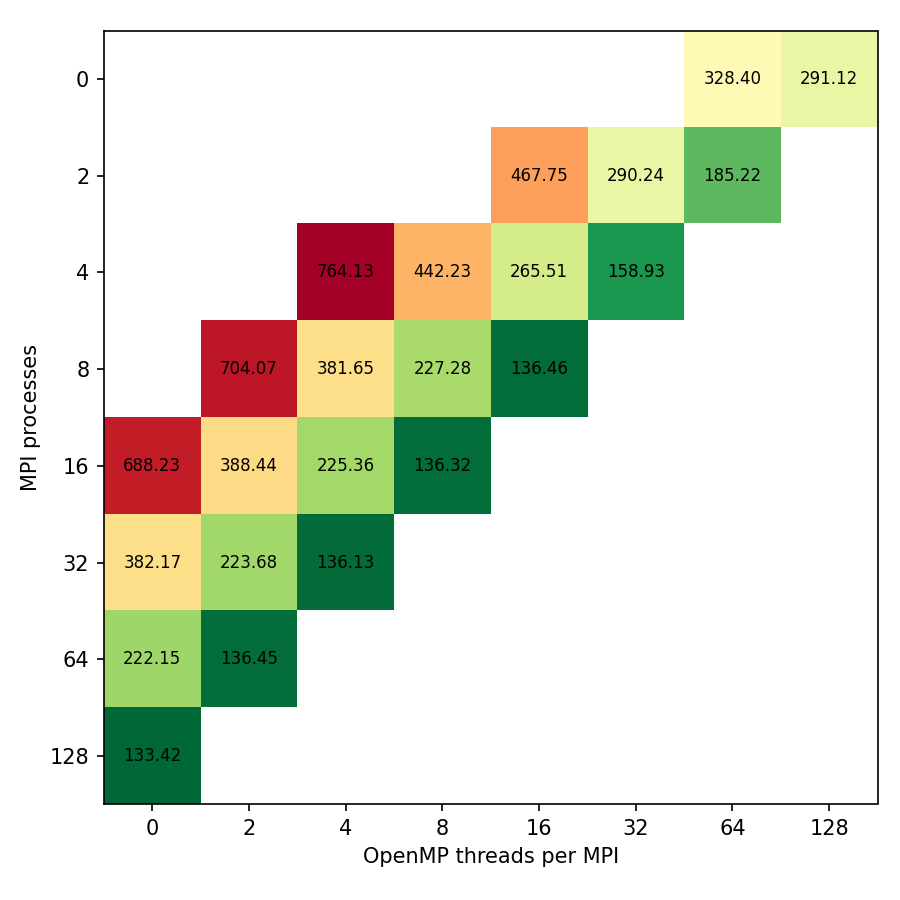
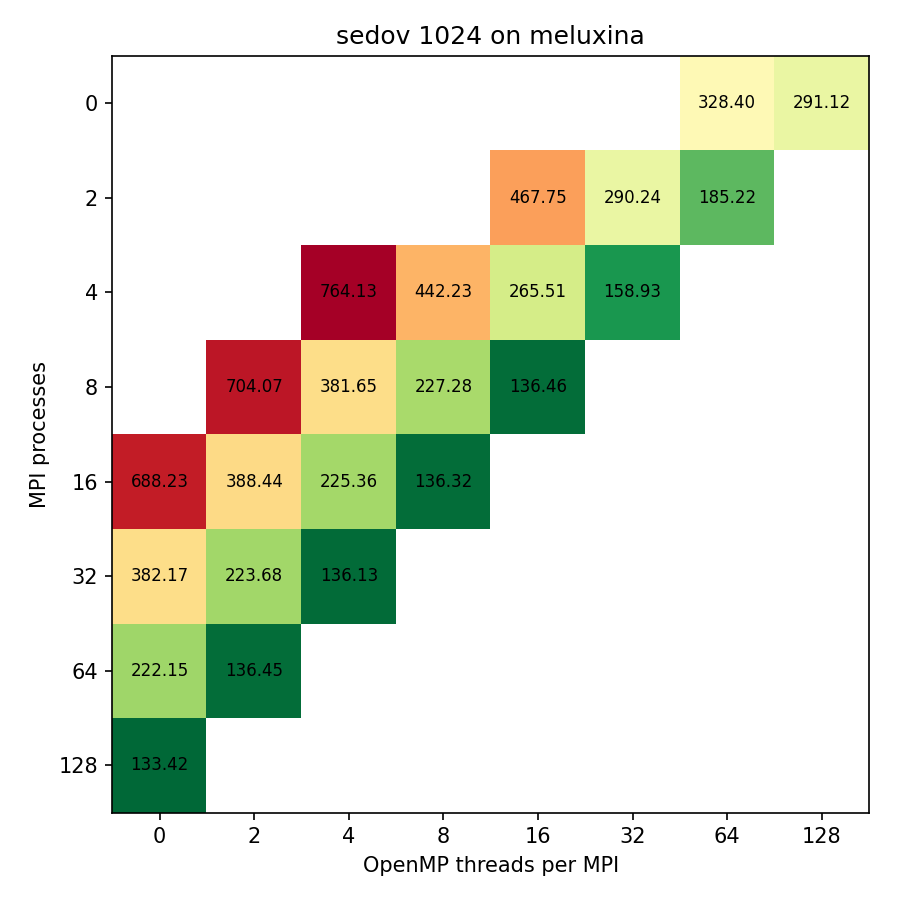
tweaks

diff --git a/analysis/openmp_config_grid.py b/analysis/openmp_config_grid.py
@@ -33,6 +33,10 @@ def plot_mpi_omp_grid(data, reso, fig_name='mpi_omp_grid', show_overhead=False):
     mpi_vals = sorted(set(k[0] for k in grid.keys()))
     omp_vals = sorted(set(k[1] for k in grid.keys()))
 
+    if len(mpi_vals)==0 and len(omp_vals)==0:
+        print('[MPI-OMP grid] No data available for this resolution:', reso)
+        return 1
+
     # remove entries that have either 1 MPI process or 1 OMP thread
     # these are for checking overhead
     if not show_overhead:
@@ -81,8 +85,11 @@ def plot_mpi_omp_grid(data, reso, fig_name='mpi_omp_grid', show_overhead=False):
     #cbar.set_label("execution time")
     #cbar.set_ticks([])
 
+    plt.title(f'{entry['metadata']['Benchmark']} {reso} on {entry['metadata']['Cluster']}')
     plt.tight_layout()
     plt.savefig(fig_name, dpi=150)
+
+    return 0
 
 
 if __name__ == '__main__':
@@ -102,7 +109,7 @@ if __name__ == '__main__':
     from tagged_data import load_latest_openmp_data
     data = load_latest_openmp_data(args.cluster, args.benchmark, args.timer)
 
-    plot_mpi_omp_grid(data, args.reso, 
+    errorcode = plot_mpi_omp_grid(data, args.reso, 
                       fig_name=f'images/mpi_omp_grid_{args.benchmark}_{args.reso}_{args.timer}_{args.cluster}.png',
                       show_overhead=False)
 

diff --git a/analysis/scaling_weak.py b/analysis/scaling_weak.py
@@ -52,7 +52,6 @@ def plot_weak_scaling(benchmarks, release_labels, arr_nodes_in, resos,
                 configs.append(best_config)
 
         if len(times)>0:
-            print(np.array(times[0])/np.array(times))
             axes.plot(arr_nodes, np.array(times[0])/np.array(times),
                   color=colorVals[label], marker='o', markersize=4, label=label)
             max_nodes = max(max_nodes,max(arr_nodes))
@@ -61,6 +60,7 @@ def plot_weak_scaling(benchmarks, release_labels, arr_nodes_in, resos,
     axes.plot([1,max_nodes],[1,1], c=(0.25,0.85,0.25), ls=':', lw=2)
 
     if input_axes==None:
+        axes.set_title(f'{entry['metadata']['Benchmark']} {reso} on {entry['metadata']['Cluster']}')
         axes.set_xlabel('number of nodes')
         axes.set_ylabel('efficiency')
         axes.set_xscale('log')

diff --git a/analysis/report_scaling.py b/analysis/report_scaling.py
@@ -55,7 +55,7 @@ plot_scaling_combo_inverse(
 )
 
 # Assemble markdown page string
-md += f"""## Strong and weak scaling of the latest code release
+md += f"""## Strong and weak scaling of the latest code release ({release_label})
 
 ![Scaling]({figfile})
 
@@ -151,11 +151,11 @@ md += f"""## Optimal OpenMP configuration
 for reso in resos:
 
     figfile_grid_omp = f'../results/images/mpi_omp_grid_{args.benchmark}_{reso}_{timer}_{args.cluster}.png'
-    plot_mpi_omp_grid(data, reso, 
+    error = plot_mpi_omp_grid(data, reso, 
                         fig_name=figfile_grid_omp,
                         show_overhead=False)
-    
-    md += f"""![MPI-OMP]({figfile_grid_omp})
+    if not error:
+        md += f"""![MPI-OMP]({figfile_grid_omp})
 
 """
     

diff --git a/analysis/tagged_data.py b/analysis/tagged_data.py
@@ -39,7 +39,7 @@ def load_release_data(cluster, test, timer='total'):
 
     # current development
     data = load_latest_openmp_data(cluster, test, timer)
-    release_labels.append("openmp")
+    release_labels.append("openmp (beta)")
     benchmarks.append(data)
 
     return benchmarks, release_labels

diff --git a/results/results_sedov_meluxina.md b/results/results_sedov_meluxina.md
@@ -10,7 +10,7 @@ On this page:
 * Strong scaling evolution (figure & table with efficiency)
 * Weak scaling evolution (figure & table with efficiency)
 
-## Strong and weak scaling of the latest code release
+## Strong and weak scaling of the latest code release (2026-05)
 
 ![Scaling](../results/images/scaling_combo_sedov_total_meluxina.png)
 
@@ -29,7 +29,7 @@ The last column informs of the speedup of the last version with
 respect to the first listed version. Unless otherwise stated,
 the time listed is for runs with MPI-only using the full compute node.
 
-| Nodes | 2024-10 | 2025-05 | 2025-10 | 2026-05 | openmp | Δ [%] |
+| Nodes | 2024-10 | 2025-05 | 2025-10 | 2026-05 | openmp (beta) | Δ [%] |
 |---|---|---|---|---|---|---|
 | 1 | 168.04 | 165.99 | 147.27 | 134.08 | 133.42 | 20.6 |
 | 2 | 85.22 | 85.23 | 75.73 | 68.80 | 68.09 | 20.1 |
@@ -52,7 +52,7 @@ with respect to the minimal number of nodes.
 Unless otherwise stated, data is for runs with MPI-only 
 using the full compute node.
 
-| nodes | 2024-10 | 2025-05 | 2025-10 | 2026-05 | openmp |
+| nodes | 2024-10 | 2025-05 | 2025-10 | 2026-05 | openmp (beta) |
 |---|---|---|---|---|---|
 | 1 | 1.000 | 1.000 | 1.000 | 1.000 | 1.000 |
 | 2 | 0.986 | 0.974 | 0.972 | 0.974 | 0.980 |
@@ -74,7 +74,7 @@ with respect to the minimal number of nodes.
 Unless otherwise stated, data is for runs with MPI-only 
 using the full compute node.
 
-| Nodes | Resolution | 2024-10 | 2025-05 | 2025-10 | 2026-05 | openmp |
+| Nodes | Resolution | 2024-10 | 2025-05 | 2025-10 | 2026-05 | openmp (beta) |
 |---|---|---|---|---|---|---|
 | 1 | 256 | 1.000  | 1.000  | 1.000  | 1.000  | 1.000 (MPI=32 OMP=4) |
 | 8 | 512 | 0.903  | 0.962  | 0.998  | 0.950  | 0.994 (MPI=32 OMP=4) |
@@ -84,8 +84,6 @@ using the full compute node.
 ## Optimal OpenMP configuration
 
 ![MPI-OMP](../results/images/mpi_omp_grid_sedov_256_total_meluxina.png)
-
-![MPI-OMP](../results/images/mpi_omp_grid_sedov_512_total_meluxina.png)
 
 ![MPI-OMP](../results/images/mpi_omp_grid_sedov_1024_total_meluxina.png)
 
